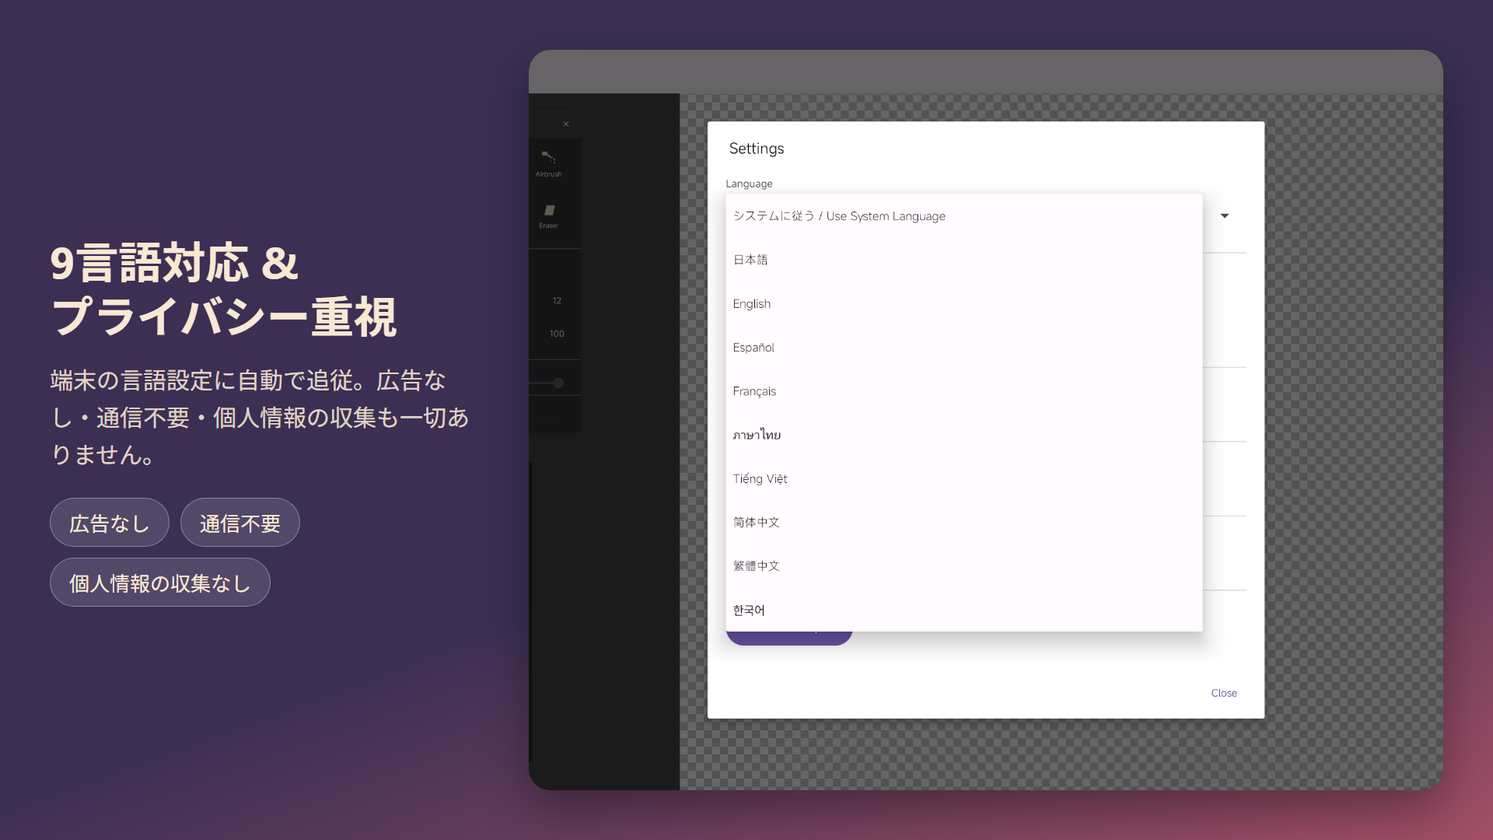
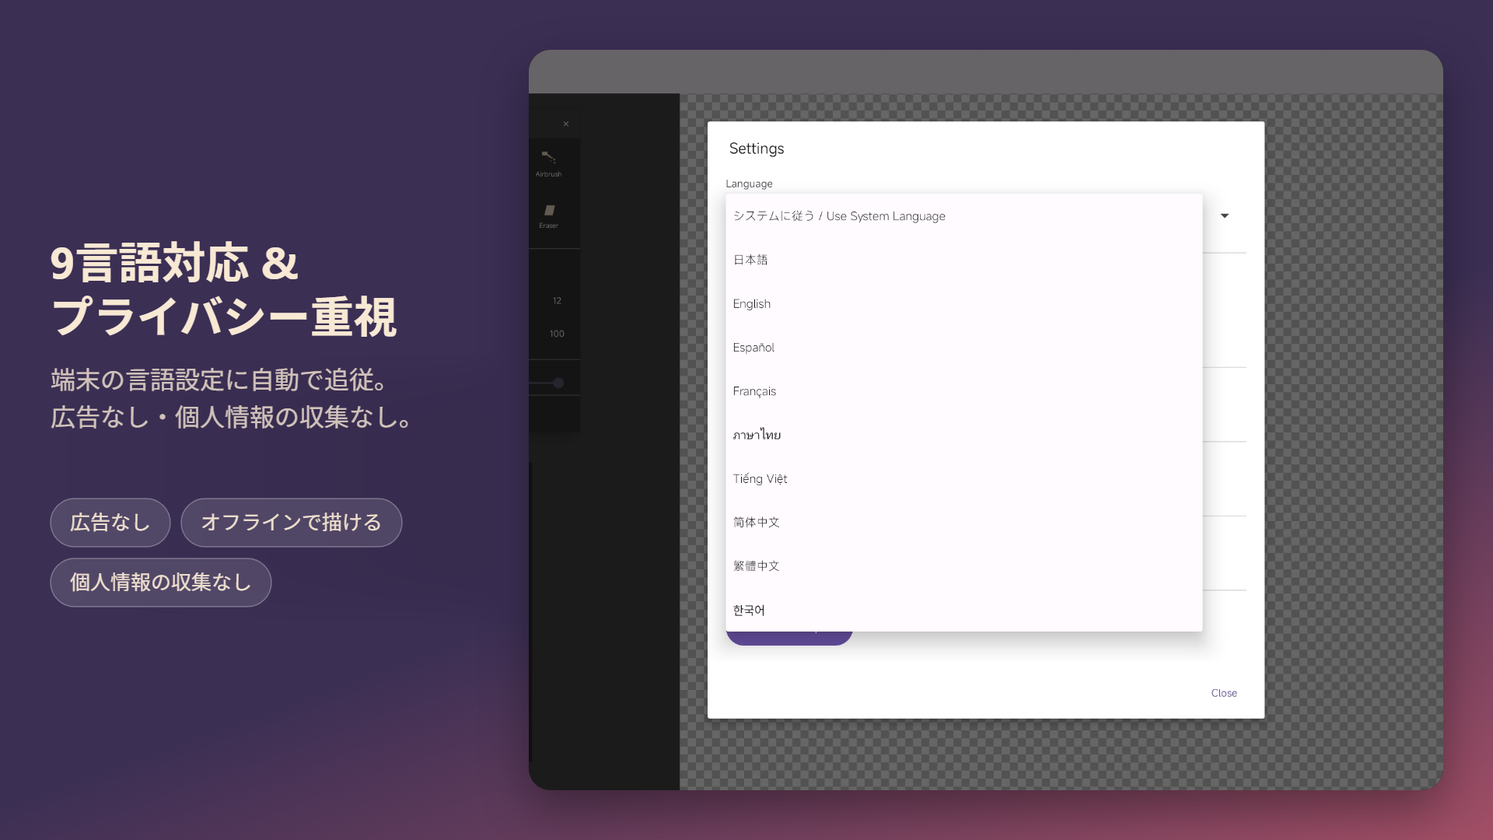
Update NukoClip pages for the Pro (one-time purchase) release
- Privacy policy: replace the "no INTERNET permission / no third-party
  SDK / fully offline" claims with the real permissions and the Play
  Billing Library, add the Pro purchase handling note, and fix the
  contact email being hidden by the i18n script
- Landing page: drop "no internet required" claims, add a Pro section
  (advanced brush settings, PSD export/import, Bluetooth gamepad)
- Regenerate feature-4-lang.png without the outdated baked-in text

diff --git a/nukoclip/nukoclip-privacy.html b/nukoclip/nukoclip-privacy.html
@@ -46,24 +46,27 @@
   <button type="button" data-lang-btn="en">EN</button>
 </div>
 
-<h1 data-ja="NukoClip プライバシーポリシー" data-en="Privacy Policy for Nukoclip">Privacy Policy for Nukoclip</h1>
-<p class="updated" data-ja="最終更新日: 2026年8月28日" data-en="Last updated: 28 Aug 2026">Last updated: 28 Aug 2026</p>
+<h1 data-ja="NukoClip プライバシーポリシー" data-en="Privacy Policy for NukoClip">Privacy Policy for NukoClip</h1>
+<p class="updated" data-ja="最終更新日: 2026年10月2日" data-en="Last updated: 2 Oct 2026">Last updated: 2 Oct 2026</p>
 
-<p data-ja="NukoClip(以下「本アプリ」)は、Nuko(以下「当方」)が開発するAndroid向けの描画・イラスト制作アプリです。このページでは、本アプリがどのようなデータを収集し、また収集しないかについて説明します。" data-en="Nukoclip (&quot;the app&quot;) is a drawing/illustration app for Android, developed by Nuko (&quot;we&quot;, &quot;our&quot;). This page explains what data the app does — and does not — collect.">
-  Nukoclip ("the app") is a drawing/illustration app for Android, developed by Nuko
+<p data-ja="NukoClip(以下「本アプリ」)は、Nuko(以下「当方」)が開発するAndroid向けの描画・イラスト制作アプリです。このページでは、本アプリがどのようなデータを収集し、また収集しないかについて説明します。" data-en="NukoClip (&quot;the app&quot;) is a drawing/illustration app for Android, developed by Nuko (&quot;we&quot;, &quot;our&quot;). This page explains what data the app does — and does not — collect.">
+  NukoClip ("the app") is a drawing/illustration app for Android, developed by Nuko
   ("we", "our"). This page explains what data the app does — and does not — collect.
 </p>
 
 <h2 data-ja="概要" data-en="Short version">Short version</h2>
-<p data-ja="NukoClipは、個人情報を一切収集・保存・送信しません。本アプリはインターネット接続の権限を持たず、アクセス解析・広告・第三者のトラッキングSDKも含まれていません。描いた作品や保存したファイルはすべて、あなたが選んだ場所に、あなたの端末内だけに保存されます。" data-en="Nukoclip does not collect, store, or transmit any personal data. The app has no internet access permission, contains no analytics, no advertising, and no third-party tracking SDKs. Everything you draw and every file you save stays on your device, in a location you choose.">
-  Nukoclip does not collect, store, or transmit any personal data. The app has no internet
-  access permission, contains no analytics, no advertising, and no third-party tracking SDKs.
-  Everything you draw and every file you save stays on your device, in a location you choose.
+<p data-ja="NukoClipは、個人情報を収集・保存・送信しません。広告・アクセス解析・トラッキングSDKは含まれていません。描画や保存などの基本機能はすべて端末内で完結し、インターネット接続なしで使えます。描いた作品や保存したファイルは、あなたが選んだ場所に、あなたの端末内だけに保存されます。なお、有料版(Pro・買い切り)の購入手続きのためにGoogle Play課金ライブラリを組み込んでおり、購入状態の確認のためにGoogle Playと通信する場合があります。" data-en="NukoClip does not collect, store, or transmit any personal data. It contains no advertising, no analytics, and no tracking SDKs. Core features such as drawing and saving all run on your device and work without an internet connection. Everything you draw and every file you save stays on your device, in a location you choose. The app does include Google's Play Billing Library to handle the optional Pro (one-time purchase) upgrade, and may communicate with Google Play to check your purchase status.">
+  NukoClip does not collect, store, or transmit any personal data. It contains no advertising,
+  no analytics, and no tracking SDKs. Core features such as drawing and saving all run on your
+  device and work without an internet connection. Everything you draw and every file you save
+  stays on your device, in a location you choose. The app does include Google's Play Billing
+  Library to handle the optional Pro (one-time purchase) upgrade, and may communicate with
+  Google Play to check your purchase status.
 </p>
 
 <h2 data-ja="ファイルの取り扱いについて" data-en="What the app does with your files">What the app does with your files</h2>
-<p data-ja="NukoClipは、あなたが明示的に操作したときにのみ、Android標準のファイル選択画面(Storage Access Framework)を通じてファイルの読み書きを行います。例えば、作品の保存、PSD形式での書き出し、画像のレイヤーとしての読み込みなどです。本アプリは、この選択画面を通じて直接選んだファイル以外をスキャン・インデックス化・アクセスすることはなく、いかなるファイルもどこにもアップロードしません(そもそもアップロード先となるサーバー自体が存在しません)。" data-en="Nukoclip reads and writes files only when you explicitly ask it to, through Android's built-in file picker (the Storage Access Framework). For example: saving a drawing, exporting a PSD, or importing an image as a layer. The app does not scan, index, or access any files you have not directly chosen through that picker, and it never uploads any file anywhere — there is no server for it to upload to.">
-  Nukoclip reads and writes files only when you explicitly ask it to, through Android's
+<p data-ja="NukoClipは、あなたが明示的に操作したときにのみ、Android標準のファイル選択画面(Storage Access Framework)を通じてファイルの読み書きを行います。例えば、作品の保存、PSD形式での書き出し、画像のレイヤーとしての読み込みなどです。本アプリは、この選択画面を通じて直接選んだファイル以外をスキャン・インデックス化・アクセスすることはなく、いかなるファイルもどこにもアップロードしません(そもそもアップロード先となるサーバー自体が存在しません)。" data-en="NukoClip reads and writes files only when you explicitly ask it to, through Android's built-in file picker (the Storage Access Framework). For example: saving a drawing, exporting a PSD, or importing an image as a layer. The app does not scan, index, or access any files you have not directly chosen through that picker, and it never uploads any file anywhere — there is no server for it to upload to.">
+  NukoClip reads and writes files only when you explicitly ask it to, through Android's
   built-in file picker (the Storage Access Framework). For example: saving a drawing,
   exporting a PSD, or importing an image as a layer. The app does not scan, index, or access
   any files you have not directly chosen through that picker, and it never uploads any file
@@ -71,11 +74,13 @@
 </p>
 
 <h2 data-ja="権限について" data-en="Permissions">Permissions</h2>
-<p data-ja="NukoClipは、INTERNET権限やストレージ権限を要求しません。すべてのファイルアクセスは、上記のシステム標準のファイル選択画面を通じて行われ、この方式では権限の許可は不要です。" data-en="Nukoclip does not request the INTERNET permission or any storage permission. All file access goes through the system file picker described above, which does not require a permission grant.">
-  Nukoclip does not request the <code>INTERNET</code> permission or any storage permission.
-  All file access goes through the system file picker described above, which does not require
-  a permission grant.
+<p data-ja="NukoClipが要求する権限とその目的は以下のとおりです:" data-en="NukoClip declares the following permissions, for the purposes below:">
+  NukoClip declares the following permissions, for the purposes below:
 </p>
+<ul>
+  <li data-ja-html="<code>INTERNET</code> / <code>ACCESS_NETWORK_STATE</code> / <code>com.android.vending.BILLING</code>: Google Play課金ライブラリが、Pro(買い切り)の購入処理と購入状態の確認のためにGoogle Playと通信するために使用されます。作品やファイルの送信には一切使用しません。購入手続き自体はGoogle Playが処理し、支払い情報は当方には渡りません。" data-en-html="<code>INTERNET</code> / <code>ACCESS_NETWORK_STATE</code> / <code>com.android.vending.BILLING</code>: used only by Google's Play Billing Library to communicate with Google Play for the Pro (one-time) purchase and to check your purchase status. They are never used to send your drawings or files anywhere. The purchase itself is handled entirely by Google Play, and payment details never reach us."><code>INTERNET</code> / <code>ACCESS_NETWORK_STATE</code> / <code>com.android.vending.BILLING</code>: used only by Google's Play Billing Library to communicate with Google Play for the Pro (one-time) purchase and to check your purchase status. They are never used to send your drawings or files anywhere. The purchase itself is handled entirely by Google Play, and payment details never reach us.</li>
+  <li data-ja="ストレージ権限は要求しません。すべてのファイルアクセスは、上記のシステム標準のファイル選択画面を通じて行われ、この方式では権限の許可は不要です。" data-en="No storage permission is requested. All file access goes through the system file picker described above, which does not require a permission grant.">No storage permission is requested. All file access goes through the system file picker described above, which does not require a permission grant.</li>
+</ul>
 
 <h2 data-ja="データ収集・アクセス解析について" data-en="Data collection and analytics">Data collection and analytics</h2>
 <p data-ja="当方が収集しないもの:" data-en="We do not collect:">We do not collect:</p>
@@ -83,7 +88,8 @@
   <li data-ja="個人情報(氏名・メールアドレス・位置情報など)" data-en="Personal information (name, email, location, etc.)">Personal information (name, email, location, etc.)</li>
   <li data-ja="サーバーに送信される利用状況の解析やクラッシュレポート" data-en="Usage analytics or crash reports sent to any server">Usage analytics or crash reports sent to any server</li>
   <li data-ja="広告識別子" data-en="Advertising identifiers">Advertising identifiers</li>
-  <li data-ja="お子様を含め、いかなる方からのいかなるデータも" data-en="Any data at all, from anyone, including children">Any data at all, from anyone, including children</li>
+  <li data-ja="決済情報(Pro購入の決済はGoogle Playが処理し、当方には渡りません)" data-en="Payment information (the Pro purchase is processed by Google Play and never reaches us)">Payment information (the Pro purchase is processed by Google Play and never reaches us)</li>
+  <li data-ja="あなたの作品やファイルそのもの(端末の外に送信されることはありません)" data-en="Your drawings or files themselves (never transmitted off your device)">Your drawings or files themselves (never transmitted off your device)</li>
 </ul>
 <p data-ja="クラッシュ発生時にAndroidシステムが生成する標準的なログは端末内にのみ保存され、あなた自身にのみ表示されます(不具合報告の際にメールなどで任意に当方へ送っていただいた場合を除きます)。" data-en="Standard Android system logs generated during a crash stay on your device and are only visible to you (or to us if you voluntarily choose to send them to us, e.g. by email, when reporting a bug).">
   Standard Android system logs generated during a crash stay on your device and are only
@@ -92,29 +98,25 @@
 </p>
 
 <h2 data-ja="第三者サービスについて" data-en="Third-party services">Third-party services</h2>
-<p data-ja="NukoClipは、第三者のSDK・解析プラットフォーム・広告ネットワーク・クラウドサービスを一切組み込んでいません。完全にオフラインで動作します。" data-en="Nukoclip does not integrate any third-party SDK, analytics platform, ad network, or cloud service. It works fully offline.">
-  Nukoclip does not integrate any third-party SDK, analytics platform, ad network, or
-  cloud service. It works fully offline.
-</p>
+<p data-ja-html="NukoClipが組み込む第三者サービスは、Google Play Billing Library(アプリ内課金)のみです。解析プラットフォーム・広告ネットワーク・クラウドストレージは一切組み込んでいません。Pro購入の決済はGoogle Playが処理し、本アプリは決済情報や個人情報を収集・保存しません。購入状態の確認のため、Google Playと通信する場合があります。Googleによる情報の取り扱いについては、<a href='https://policies.google.com/privacy' target='_blank' rel='noopener'>Googleのプライバシーポリシー</a>をご確認ください。" data-en-html="The only third-party service NukoClip integrates is Google's Play Billing Library (in-app purchase). It includes no analytics platform, ad network, or cloud storage service. The Pro purchase is processed by Google Play, and the app does not collect or store payment details or personal information. The app may communicate with Google Play to check your purchase status. For how Google handles information, see <a href='https://policies.google.com/privacy' target='_blank' rel='noopener'>Google's Privacy Policy</a>.">The only third-party service NukoClip integrates is Google's Play Billing Library (in-app purchase). It includes no analytics platform, ad network, or cloud storage service. The Pro purchase is processed by Google Play, and the app does not collect or store payment details or personal information. The app may communicate with Google Play to check your purchase status. For how Google handles information, see <a href="https://policies.google.com/privacy" target="_blank" rel="noopener">Google's Privacy Policy</a>.</p>
 
 <h2 data-ja="お子様のプライバシーについて" data-en="Children's privacy">Children's privacy</h2>
-<p data-ja="本アプリは誰からもデータを収集しないため、13歳未満のお子様(またはお住まいの国で定められた年齢未満の方)から意図的に情報を収集することもありません。" data-en="Because the app collects no data from anyone, it does not knowingly collect any information from children under 13 (or the relevant age in your country).">
-  Because the app collects no data from anyone, it does not knowingly collect any
+<p data-ja="本アプリは誰からも個人情報を収集しないため、13歳未満のお子様(またはお住まいの国で定められた年齢未満の方)から意図的に情報を収集することもありません。" data-en="Because the app collects no personal information from anyone, it does not knowingly collect any information from children under 13 (or the relevant age in your country).">
+  Because the app collects no personal information from anyone, it does not knowingly collect any
   information from children under 13 (or the relevant age in your country).
 </p>
 
 <h2 data-ja="本ポリシーの変更について" data-en="Changes to this policy">Changes to this policy</h2>
-<p data-ja="本ポリシーの内容に変更があった場合(例: 将来追加されるオプション機能でネットワークアクセスが必要になる場合など)、このページを更新し、上記の「最終更新日」も合わせて更新します。そのような変更は、リリース前にアプリ内の説明にも反映されます。" data-en="If this policy ever changes — for example, if a future optional feature introduces network access — this page will be updated and the &quot;Last updated&quot; date above will change accordingly. Any such change would also be reflected in the app's in-app description before release.">
-  If this policy ever changes — for example, if a future optional feature introduces network
-  access — this page will be updated and the "Last updated" date above will change
-  accordingly. Any such change would also be reflected in the app's in-app description before
-  release.
+<p data-ja="本ポリシーの内容に変更があった場合(例: 将来追加される機能で新たな通信やデータの取り扱いが必要になる場合など)、このページを更新し、上記の「最終更新日」も合わせて更新します。そのような変更は、リリース前にアプリ内の説明にも反映されます。" data-en="If this policy ever changes — for example, if a future feature introduces new network communication or data handling — this page will be updated and the &quot;Last updated&quot; date above will change accordingly. Any such change would also be reflected in the app's in-app description before release.">
+  If this policy ever changes — for example, if a future feature introduces new network
+  communication or data handling — this page will be updated and the "Last updated" date above
+  will change accordingly. Any such change would also be reflected in the app's in-app
+  description before release.
 </p>
 
 <h2 data-ja="お問い合わせ" data-en="Contact">Contact</h2>
-<p data-ja="本ポリシーやアプリに関するご質問は、以下までお送りください:" data-en="Questions about this policy or the app can be sent to:">
-  Questions about this policy or the app can be sent to: <a href="mailto:contact@nukoapps.fyi">contact@nukoapps.fyi</a>
-</p>
+<p data-ja="本ポリシーやアプリに関するご質問は、以下までお送りください:" data-en="Questions about this policy or the app can be sent to:">Questions about this policy or the app can be sent to:</p>
+<p><a href="mailto:contact@nukoapps.fyi">contact@nukoapps.fyi</a></p>
 
 </body>
 </html>

diff --git a/nukoclip/index.html b/nukoclip/index.html
@@ -4,7 +4,7 @@
 <meta charset="utf-8">
 <meta name="viewport" content="width=device-width, initial-scale=1">
 <title data-ja="NukoClip — 描くを、もっとシンプルに。" data-en="NukoClip — Drawing made simple.">NukoClip — 描くを、もっとシンプルに。</title>
-<meta name="description" data-ja="NukoClipは、レイヤー機能や豊富な描画ツールを備えた、Android向けの基本無料お絵描きアプリです。広告なし・通信不要・個人情報の収集なし。" data-en="Simple drawing app with rich layers, pressure brushes & left-hand controller." content="NukoClipは、レイヤー機能や豊富な描画ツールを備えた、Android向けの基本無料お絵描きアプリです。広告なし・通信不要・個人情報の収集なし。">
+<meta name="description" data-ja="NukoClipは、レイヤー機能や豊富な描画ツールを備えた、Android向けの基本無料お絵描きアプリです。広告なし・個人情報の収集なし。追加機能は買い切りのProで解放できます。" data-en="Simple drawing app with rich layers, pressure brushes & left-hand controller. Free to use, no ads, with an optional one-time Pro upgrade." content="NukoClipは、レイヤー機能や豊富な描画ツールを備えた、Android向けの基本無料お絵描きアプリです。広告なし・個人情報の収集なし。追加機能は買い切りのProで解放できます。">
 <link rel="icon" href="assets/icon.png">
 <script src="../assets/i18n.js" defer></script>
 <style>
@@ -194,9 +194,9 @@
       </p>
       <div class="badges">
         <span class="badge" data-ja="広告なし" data-en="No ads">広告なし</span>
-        <span class="badge" data-ja="通信不要" data-en="No internet required">通信不要</span>
+        <span class="badge" data-ja="オフラインで描ける" data-en="Draw offline">オフラインで描ける</span>
         <span class="badge" data-ja="個人情報の収集なし" data-en="No data collected">個人情報の収集なし</span>
-        <span class="badge" data-ja="基本無料" data-en="Free to use">基本無料</span>
+        <span class="badge" data-ja="基本無料・Pro買い切り" data-en="Free · One-time Pro">基本無料・Pro買い切り</span>
       </div>
       <a class="cta" href="https://play.google.com/store/apps/details?id=fyi.nukoapps.nukoclip" data-ja="Google Play で手に入れよう" data-en="Get it on Google Play">Google Play で手に入れよう</a>
     </div>
@@ -254,15 +254,39 @@
       <img src="assets/feature-1-layers.png" alt="レイヤー機能が充実: 合成モード18種類・マスク・クリッピング・フォルダ管理まで、本格的なレイヤー編集ができます">
       <img src="assets/feature-2-lefthand.png" alt="左手デバイス風コントローラー: 十字キー+ABXYボタンをカスタマイズ可能。物理キーボードのショートカットも使えます">
       <img src="assets/feature-3-brush.png" alt="筆圧対応ブラシ: ペン・ブラシ・エアブラシ・消しゴム・ぼかし・指先の6種類。手ブレ補正で線がなめらかに">
-      <img src="assets/feature-4-lang.png" alt="9言語対応&プライバシー重視: 広告なし・通信不要・個人情報の収集も一切ありません">
+      <img src="assets/feature-4-lang.png" alt="9言語対応&プライバシー重視: 広告なし・個人情報の収集なし">
     </div>
 
   </div>
 </section>
 
+<section id="pro">
+  <div class="section-inner">
+    <h2 data-ja="Pro(買い切り)" data-en="Pro (one-time purchase)">Pro(買い切り)</h2>
+    <p class="section-sub" data-ja="基本機能は無料のまま。一度の購入で、さらに細かい表現と対応機器が使えます。" data-en="Everything above stays free. A single one-time purchase adds finer control and more input devices.">基本機能は無料のまま。一度の購入で、さらに細かい表現と対応機器が使えます。</p>
+
+    <div class="feature-grid">
+      <div class="feature-card">
+        <h3 data-ja="ブラシ詳細設定" data-en="Advanced brush settings">ブラシ詳細設定</h3>
+        <p data-ja="合成モード、エッジのぼかし具合、筆圧に応じたサイズ・濃度の変化を細かく調整できます。" data-en="Fine-tune the blend mode, edge softness, and how size and density respond to pen pressure.">合成モード、エッジのぼかし具合、筆圧に応じたサイズ・濃度の変化を細かく調整できます。</p>
+      </div>
+      <div class="feature-card">
+        <h3 data-ja="PSD書き出し・読み込み" data-en="PSD export & import">PSD書き出し・読み込み</h3>
+        <p data-ja="他のペイントソフトとの作品のやり取りに使えるPSD形式に対応します。" data-en="Exchange artwork with other painting apps through the PSD format.">他のペイントソフトとの作品のやり取りに使えるPSD形式に対応します。</p>
+      </div>
+      <div class="feature-card">
+        <h3 data-ja="Bluetoothゲームパッド対応" data-en="Bluetooth gamepad support">Bluetoothゲームパッド対応</h3>
+        <p data-ja="Bluetoothゲームパッドの入力で操作できます。" data-en="Control the app with a Bluetooth gamepad.">Bluetoothゲームパッドの入力で操作できます。</p>
+      </div>
+    </div>
+
+    <p class="section-sub" style="margin-top:24px;" data-ja="Proは買い切りです。購入はGoogle Playで行います。" data-en="Pro is a one-time purchase, made through Google Play.">Proは買い切りです。購入はGoogle Playで行います。</p>
+  </div>
+</section>
+
 <section class="cta-section">
   <div class="section-inner">
-    <h2 data-ja="広告なし、通信不要、完全オフライン" data-en="No ads. No internet required. Fully offline.">広告なし、通信不要、完全オフライン</h2>
+    <h2 data-ja="広告なし、描画はオフラインで" data-en="No ads. Draw offline.">広告なし、描画はオフラインで</h2>
     <p class="section-sub" data-ja="個人情報の収集も一切行いません。いつでもどこでも、安心してお絵描きが楽しめます。" data-en="No personal data is collected, ever. Draw with peace of mind, anytime, anywhere.">
       個人情報の収集も一切行いません。いつでもどこでも、安心してお絵描きが楽しめます。
     </p>
